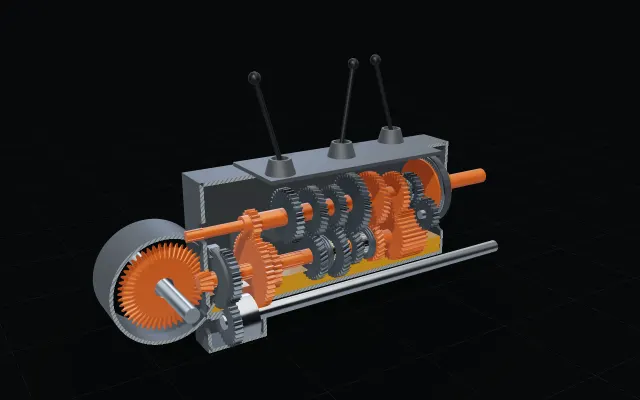
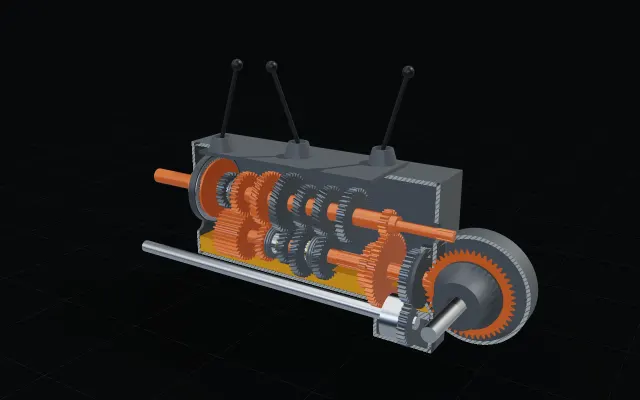
Gearbox rigs: the reverse idler turns on a stub shaft held from the side wall, and the cut-away keeps the side that holds the idler and the levers

diff --git a/web/src/modules/powertrain/gearboxes/index.tsx b/web/src/modules/powertrain/gearboxes/index.tsx
@@ -7,8 +7,9 @@ import { GearboxPanel } from './Panel'
 import { GearboxScene3D } from './Scene3D'
 
 type V3 = [number, number, number]
-const home = { position: [1.5, 0.64, 1.42] as V3, target: [0, 0.05, 0.42] as V3 }
-const near = (z: number) => ({ position: [0.5, 0.18, z + 0.32] as V3, target: [0, -0.06, z] as V3 })
+// seen from the −X side: the cut removes that half, keeping the idler's side wall and the casing top the levers stand on
+const home = { position: [-1.5, 0.64, 1.42] as V3, target: [0, 0.05, 0.42] as V3 }
+const near = (z: number) => ({ position: [-0.5, 0.18, z + 0.32] as V3, target: [0, -0.06, z] as V3 })
 
 const scene: SceneDef = {
   id: 'gearboxes',
@@ -23,10 +24,10 @@ const scene: SceneDef = {
   hatchScale: 0.005,
   timeScale: 1 / 20,
   cutPresets: [
-    { id: 'side', label: 'Through the shafts', planes: [{ normal: [1, 0, 0], pos: 0 }] },
-    { id: 'quarter', label: 'Quarter cut', planes: [{ normal: [1, 0, 0], pos: 0 }, { normal: [0, 1, 0], pos: 0.02 }], intersection: true },
+    { id: 'side', label: 'Through the shafts', planes: [{ normal: [-1, 0, 0], pos: 0 }] },
+    { id: 'quarter', label: 'Quarter cut', planes: [{ normal: [-1, 0, 0], pos: 0 }, { normal: [0, 1, 0], pos: 0.02 }], intersection: true },
     { id: 'plan', label: 'Plan section', planes: [{ normal: [0, 1, 0], pos: 0.02 }] },
-    { id: 'all', label: 'Section everything', planes: [{ normal: [1, 0, 0], pos: 0 }], sectionMoving: true },
+    { id: 'all', label: 'Section everything', planes: [{ normal: [-1, 0, 0], pos: 0 }], sectionMoving: true },
   ],
   defaultPreset: 'side',
   cites: [SRC.tts510('p4–7, Figs 32–33'), SRC.pt510('p3 — sliding gear, collar shift, synchromesh'), SRC.top510('p3–4')],
@@ -68,7 +69,7 @@ const scene: SceneDef = {
       title: 'Reverse through an idler',
       body:
         'For reverse the sliding gear meshes with an **idler**: power passes top → idler → bottom, two meshes instead of one, so the output turns the other way.',
-      camera: { position: [0.55, 0.15, 0.62], target: [0.04, -0.05, 0.32] },
+      camera: { position: [-0.55, 0.15, 0.62], target: [0.04, -0.05, 0.32] },
       select: 'idler',
       params: { variant: 'sliding', gear: 'R', range: 'L' },
       cites: [SRC.pt510('p3 — reverse the travel')],
@@ -118,7 +119,7 @@ const scene: SceneDef = {
       title: 'Crown wheel and pinion',
       body:
         'The output shaft’s bevel **pinion** drives the **crown wheel** through 90° — a second reduction (47 : 11). The final reduction in the hubs makes the third. The bottom-shaft gears dip into **SAE 40/50 gear oil**, checked weekly.',
-      camera: { position: [0.55, 0.3, BEVEL.apexZ + 0.35], target: [-0.04, -0.05, BEVEL.apexZ - 0.05] },
+      camera: { position: [-0.55, 0.3, BEVEL.apexZ + 0.35], target: [-0.04, -0.05, BEVEL.apexZ - 0.05] },
       select: 'crown',
       cites: [SRC.tts510('p7, p10')],
     },

diff --git a/web/src/modules/powertrain/mf-16-speed/index.tsx b/web/src/modules/powertrain/mf-16-speed/index.tsx
@@ -7,8 +7,9 @@ import { MF16Panel } from './Panel'
 import { MF16Scene3D } from './Scene3D'
 
 type V3 = [number, number, number]
-const home = { position: [1.75, 0.72, 1.62] as V3, target: [0, 0.03, 0.5] as V3 }
-const at = (z: number, y = -0.07, d = 0.55) => ({ position: [d, 0.18, z + d * 0.8] as V3, target: [0, y, z] as V3 })
+// seen from the −X side: the cut removes that half, keeping the idler with its shaft's walls and the casing top the levers stand on
+const home = { position: [-1.75, 0.72, 1.62] as V3, target: [0, 0.03, 0.5] as V3 }
+const at = (z: number, y = -0.07, d = 0.55) => ({ position: [-d, 0.18, z + d * 0.8] as V3, target: [0, y, z] as V3 })
 
 const scene: SceneDef = {
   id: 'mf-16-speed',
@@ -23,9 +24,9 @@ const scene: SceneDef = {
   hatchScale: 0.006,
   timeScale: 1 / 30,
   cutPresets: [
-    { id: 'side', label: 'Through both shaft lines', planes: [{ normal: [1, 0, 0], pos: 0 }] },
-    { id: 'quarter', label: 'Quarter cut', planes: [{ normal: [1, 0, 0], pos: 0 }, { normal: [0, 1, 0], pos: -0.07 }], intersection: true },
-    { id: 'all', label: 'Section everything', planes: [{ normal: [1, 0, 0], pos: 0 }], sectionMoving: true },
+    { id: 'side', label: 'Through both shaft lines', planes: [{ normal: [-1, 0, 0], pos: 0 }] },
+    { id: 'quarter', label: 'Quarter cut', planes: [{ normal: [-1, 0, 0], pos: 0 }, { normal: [0, 1, 0], pos: -0.07 }], intersection: true },
+    { id: 'all', label: 'Section everything', planes: [{ normal: [-1, 0, 0], pos: 0 }], sectionMoving: true },
   ],
   defaultPreset: 'side',
   cites: [SRC.top510('p3–4, Fig A2.6'), SRC.tts510('p4–5 — gearbox speeds and levers')],
@@ -116,7 +117,7 @@ const scene: SceneDef = {
     {
       title: '4WD clutch and parking brake',
       body: 'A **transfer gear** on the output shaft drives the **four-wheel-drive clutch** and the **front axle drive shaft** under the box. The **parking brake** holds the output shaft.',
-      camera: { position: [0.55, -0.1, ST.transfer + 0.45], target: [0, -0.25, ST.transfer] },
+      camera: { position: [-0.55, -0.1, ST.transfer + 0.45], target: [0, -0.25, ST.transfer] },
       select: 'transfer',
       params: { fourWD: true },
       cites: [SRC.top510('Fig A2.6')],
@@ -125,7 +126,7 @@ const scene: SceneDef = {
       title: 'All the speeds',
       body:
         'Open **Controls**: the table lists all 16 forward speeds, slowest first — 1.7 to 32.7 km/h at 2000 rpm, close to the typical 1.6–32 km/h of a tractor box — and the 12 reverse speeds. Tooth numbers are typical values.',
-      camera: { position: [0.7, 0.3, BEVEL.apexZ + 0.6], target: [0, -0.1, 0.6] },
+      camera: { position: [-0.7, 0.3, BEVEL.apexZ + 0.6], target: [0, -0.1, 0.6] },
       select: null,
       cites: [SRC.tts510('p4')],
     },

diff --git a/web/src/modules/powertrain/gearboxes/geometry.ts b/web/src/modules/powertrain/gearboxes/geometry.ts
@@ -2,7 +2,7 @@ import * as THREE from 'three'
 import { box, cylinder, mat4, merge, xform } from '@/geometry'
 import { baulkRing, bevelPinion, crownHousing, crownWheel, diffCase, gearLever, shiftCollar, shiftFork, slidingCluster, synchroGear } from '@/parts/lib/driveline'
 import { axial, boxFrom, casing, dogRing, helical, shaftZ, splineZ, spur } from '@/parts/lib/shapes'
-import { BAULK_W, BEVEL, BOTTOM_Y, DOG_W, GW, HUB_W, INPUT_END, M, OUTPUT_END, RANGE, SLIDE, Z } from './dims'
+import { BAULK_W, BEVEL, BOTTOM_Y, DOG_W, GW, HUB_W, INPUT_END, M, OUTPUT_END, RANGE, SLIDE, Z, IDLER } from './dims'
 
 /** Gearbox geometry (worker-safe). Gears in XY, shafts along Z; gear centres at z = 0 (positioned in the scene). */
 
@@ -33,6 +33,10 @@ export function buildStatic() {
     output: merge(shaftZ(0.016, INPUT_END - 0.03, INPUT_END, 20), splineZ(12, 0.0235, 0.021, INPUT_END, OUTPUT_END)),
     bottom: shaftZ(0.024, -0.008, RANGE.l + 0.03, 32),
     idlerShaft: shaftZ(0.016, 0.0, 0.44, 20),
+    // the reverse idler turns on a short stub shaft, carried by a boss from the casing's side wall (a pin
+    // the length of the box would run through third gear and the range gears beside it). Local to the idler.
+    idlerStub: shaftZ(0.0155, -GW / 2 - 0.004, GW / 2 + 0.014, 20),
+    idlerBoss: boxFrom([-0.02, -0.013, GW / 2 + 0.004], [0.14 - IDLER.x, 0.013, GW / 2 + 0.016]),
     // sliding mesh
     clusterA: slidingClusterG(Z.t1, Z.t2),
     clusterB: slidingClusterG(Z.t3, Z.tr),

diff --git a/web/src/modules/powertrain/gearboxes/Scene3D.tsx b/web/src/modules/powertrain/gearboxes/Scene3D.tsx
@@ -267,6 +267,9 @@ export function GearboxScene3D() {
 
         <Part id="idler" name="Reverse idler" role="moving" material="steelDark" info={INFO.idler} cites={C.sliding}>
           <group position={[IDLER.x, IDLER.y, idlerZ]}>
+            {/* still: the stub shaft it turns on, and the boss holding it to the side wall */}
+            <PartMesh geometry={g.idlerStub} material="steel" />
+            <PartMesh geometry={g.idlerBoss} material="castIron" />
             <group ref={idler}>
               <PartMesh geometry={sl ? g.spurIdler : g.hIdler} material={pf(on.gr, 'steelDark')} />
             </group>
